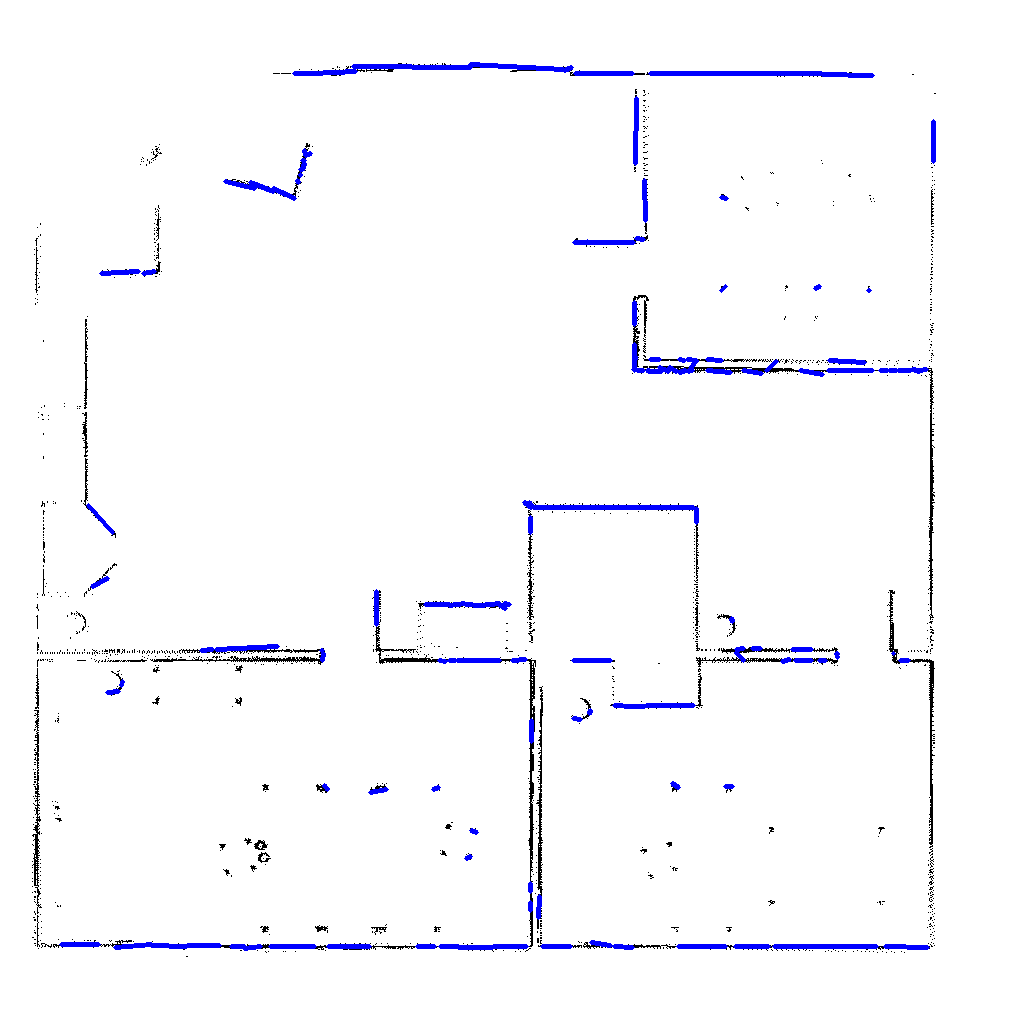
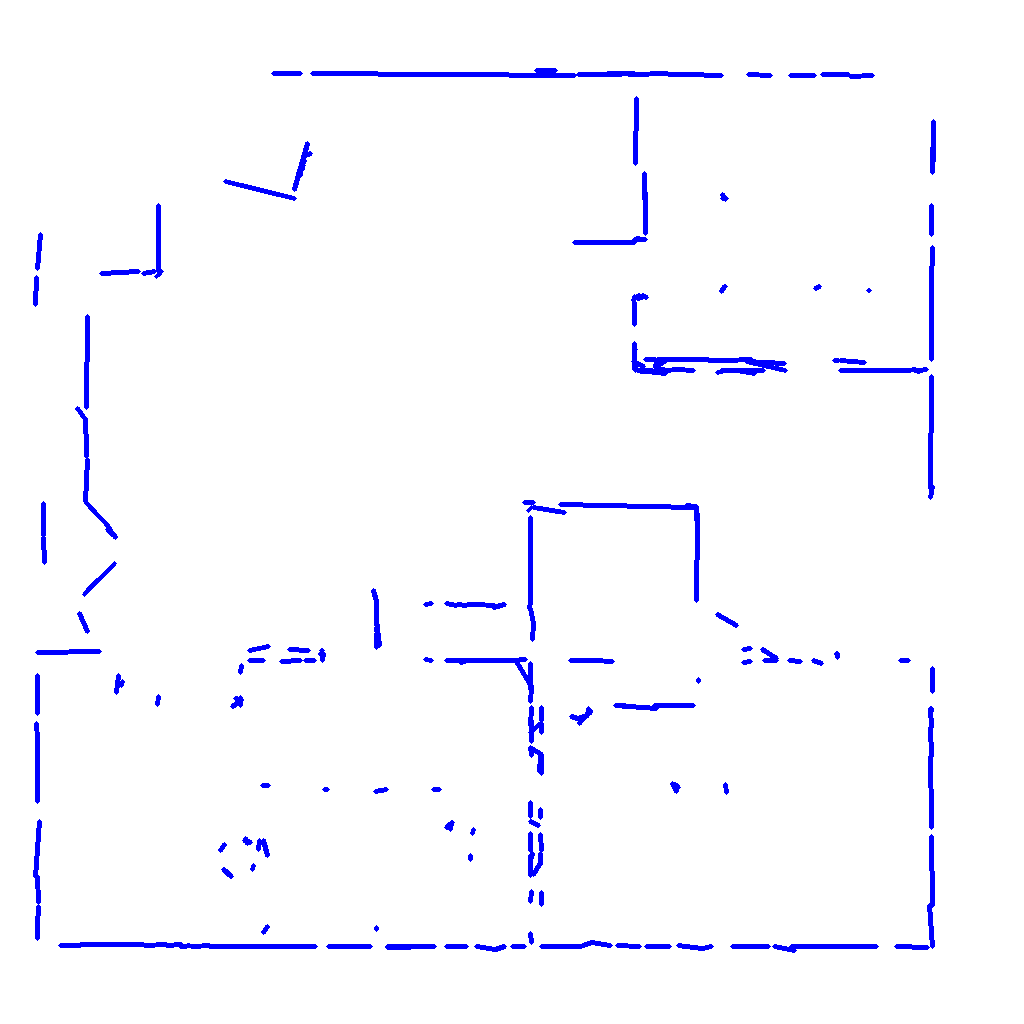
Added more robust version of RANSAC

diff --git a/feature_extraction.py b/feature_extraction.py
@@ -3,7 +3,8 @@ import math
 import numpy as np
 import random
 
-def ransac(points, canvas):
+
+def ransac_inverted_plane(points, canvas):
     good = 0
     while good <= 100:
         print("Iter number #", good)
@@ -21,25 +22,107 @@ def ransac(points, canvas):
         point1 = points[guess1]
         point2 = points[guess2]
 
-        m = (point2[1] - point1[1])/(point2[0] - point1[0])
-        b = point2[1] + point2[0]*((point1[1] - point2[1])/(point2[0] - point1[0]))
+        m2 = (point2[0] - point1[0])/(point2[1] - point1[1])
+        b2 = point2[0] + point2[1]*((point1[0] - point2[0])/(point2[1] - point1[1]))
 
-        denom = np.sqrt((m**2) + 1)
+        denom2 = np.sqrt((m2**2) + 1)
 
-        distance = []
+        distance2 = []
         for _, element in enumerate(points):
-            distance.append(np.abs((m * element[0]) + element[1] + b)/denom)
-        norm_dist = distance/np.max(distance)
+            distance2.append(np.abs((m2 * element[1]) + element[0] + b2)/denom2)
+        norm_dist2 = distance2/np.max(distance2)
 
-        hit_rate = 0
+        hit_rate2 = 0
         hit_idx = []
-        for idx, elem in enumerate(norm_dist):
+        for idx, elem in enumerate(norm_dist2):
             if elem < 0.1:
-                hit_rate += 1
+                hit_rate2 += 1
                 hit_idx.append(idx)
-        print(hit_rate)
+        print(hit_rate2)
         
-        if hit_rate > 20000:
+        if hit_rate2 > 20000:
+            #print("Vai pintar")
+
+            points = points[points[:, 0].argsort()]
+            points = points[points[:, 1].argsort(kind='mergesort')]
+
+            last_x = points[0][0]
+            last_y = points[0][1]
+            p_0 = [last_x, last_y]
+            n_points = 0
+            to_be_deleted = []
+            to_be_deleted_iter = []
+            for idx in hit_idx:
+                #print("@@@@@@@@2", points[idx][0]**2)
+                dist_between_points = math.sqrt(((points[idx][0] - last_x)**2) + ((points[idx][1] - last_y)**2))
+                #print(dist_between_points)
+                if dist_between_points > 0.1:
+                    #print("n points", n_points)
+                    if n_points > 1000:
+                        #print("Vai pintar meeeesmo", n_points)
+                        cv2.line(canvas, (int((1024/14)*(p_0[0] + 6)), (1024 - int((1024/14)*(p_0[1] + 8)))), (int((1024/14)*(last_x + 6)), (1024 - int((1024/14)*(last_y + 8)))), (255, 0, 0), 3)
+                        cv2.imwrite("features.png", canvas)
+                        to_be_deleted += to_be_deleted_iter
+                    n_points = 0
+                    p_0[0] = points[idx][0]
+                    p_0[1] = points[idx][1]
+                    to_be_deleted_iter = []
+                else:
+                    n_points += 1
+                    to_be_deleted_iter.append(idx)
+                last_x = points[idx][0]
+                last_y = points[idx][1]
+
+        
+            points = np.delete(points, to_be_deleted, axis=0)
+        good += 1
+
+def ransac_regular_plane(points, canvas):
+    good = 0
+    while good <= 100:
+        print("Iter number #", good)
+        valid_guess = False
+        guess1 = 0
+        guess2 = 0
+
+        while not valid_guess:
+            guess1 = random.randint(0, points.shape[0] - 1)
+            guess2 = random.randint(0, points.shape[0] - 1)
+            
+            if guess1 != guess2:
+                valid_guess = True
+
+        point1 = points[guess1]
+        point2 = points[guess2]
+
+        m1 = (point2[1] - point1[1])/(point2[0] - point1[0])
+        b1 = point2[1] + point2[0]*((point1[1] - point2[1])/(point2[0] - point1[0]))
+
+        m2 = (point2[0] - point1[0])/(point2[1] - point1[1])
+        b2 = point2[0] + point2[1]*((point1[0] - point2[0])/(point2[1] - point1[1]))
+
+        denom1 = np.sqrt((m1**2) + 1)
+        denom2 = np.sqrt((m2**2) + 1)
+
+        distance1 = []
+        for _, element in enumerate(points):
+            distance1.append(np.abs((m1 * element[0]) + element[1] + b1)/denom1)
+        norm_dist1 = distance1/np.max(distance1)
+
+        distance2 = []
+        for _, element in enumerate(points):
+            distance2.append(np.abs((m2 * element[1]) + element[0] + b2)/denom1)
+        norm_dist2 = distance2/np.max(distance2)
+
+        hit_rate1 = 0
+        hit_idx = []
+        for idx, elem in enumerate(norm_dist1):
+            if elem < 0.1:
+                hit_rate1 += 1
+                hit_idx.append(idx)
+        print(hit_rate1)
+        
+        if hit_rate1 > 20000:
             #print("Vai pintar")
 
             points = points[points[:, 1].argsort()]
@@ -71,9 +154,52 @@ def ransac(points, canvas):
                     to_be_deleted_iter.append(idx)
                 last_x = points[idx][0]
                 last_y = points[idx][1]
-
             points = np.delete(points, to_be_deleted, axis=0)
-            '''if points[idx][0] < min_x:
+
+        '''hit_rate2 = 0
+        hit_idx = []
+        for idx, elem in enumerate(norm_dist2):
+            if elem < 0.1:
+                hit_rate2 += 1
+                hit_idx.append(idx)
+        print(hit_rate2)
+        
+        if hit_rate2 > 20000:
+            #print("Vai pintar")
+
+            points = points[points[:, 0].argsort()]
+            points = points[points[:, 1].argsort(kind='mergesort')]
+
+            last_x = points[0][0]
+            last_y = points[0][1]
+            p_0 = [last_x, last_y]
+            n_points = 0
+            to_be_deleted = []
+            to_be_deleted_iter = []
+            for idx in hit_idx:
+                #print("@@@@@@@@2", points[idx][0]**2)
+                dist_between_points = math.sqrt(((points[idx][0] - last_x)**2) + ((points[idx][1] - last_y)**2))
+                #print(dist_between_points)
+                if dist_between_points > 0.1:
+                    #print("n points", n_points)
+                    if n_points > 1000:
+                        #print("Vai pintar meeeesmo", n_points)
+                        cv2.line(canvas, (int((1024/14)*(p_0[0] + 6)), (1024 - int((1024/14)*(p_0[1] + 8)))), (int((1024/14)*(last_x + 6)), (1024 - int((1024/14)*(last_y + 8)))), (255, 0, 0), 3)
+                        cv2.imwrite("features.png", canvas)
+                        to_be_deleted += to_be_deleted_iter
+                    n_points = 0
+                    p_0[0] = points[idx][0]
+                    p_0[1] = points[idx][1]
+                    to_be_deleted_iter = []
+                else:
+                    n_points += 1
+                    to_be_deleted_iter.append(idx)
+                last_x = points[idx][0]
+                last_y = points[idx][1]
+
+        
+            points = np.delete(points, to_be_deleted, axis=0)'''
+        '''if points[idx][0] < min_x:
                     min_x = points[idx][0]
                     min_y = points[idx][1]
                 if points[idx][0] > max_x:
@@ -162,25 +288,30 @@ def main():
     for i, _ in enumerate(points):
         points[i] = [data[0][i], data[1][i]]
 
-    points = points[points[:, 1].argsort()]
-    points = points[points[:, 0].argsort(kind='mergesort')]
+
+    sorted_points = points[points[:, 1].argsort()]
+    sorted_points = sorted_points[sorted_points[:, 0].argsort(kind='mergesort')]
 
     print("Msix x:", np.min(data[0]), "Max x:", np.max(data[0]))
     plot_arr = np.full((1024, 1024, 3), 255, dtype=np.uint8)
     result = np.full((1024, 1024, 3), 255, dtype=np.uint8)
     #print(points[0][0], points[0][1])
-    for point in points:
+    for point in sorted_points:
         x = int((1024/14)*(point[0] + 6))
         y = 1024 - int((1024/14)*(point[1] + 8))
         #print(x, y)
-        plot_arr[y][x][0] = 0
-        plot_arr[y][x][1] = 0
-        plot_arr[y][x][2] = 0
+        # plot_arr[y][x][0] = 0
+        # plot_arr[y][x][1] = 0
+        # plot_arr[y][x][2] = 0
         #print(x, y)
 
     #points = points.reshape((-1, 1, 2))
 
-    ransac(points, plot_arr)
+    ransac_regular_plane(sorted_points, plot_arr)
+
+    sorted_points = points[points[:, 0].argsort()]
+    sorted_points = sorted_points[sorted_points[:, 1].argsort(kind='mergesort')]
+    ransac_inverted_plane(sorted_points, plot_arr)
     #print("intersection_points")
 
     # cv2.imshow("Window", plot_arr)
